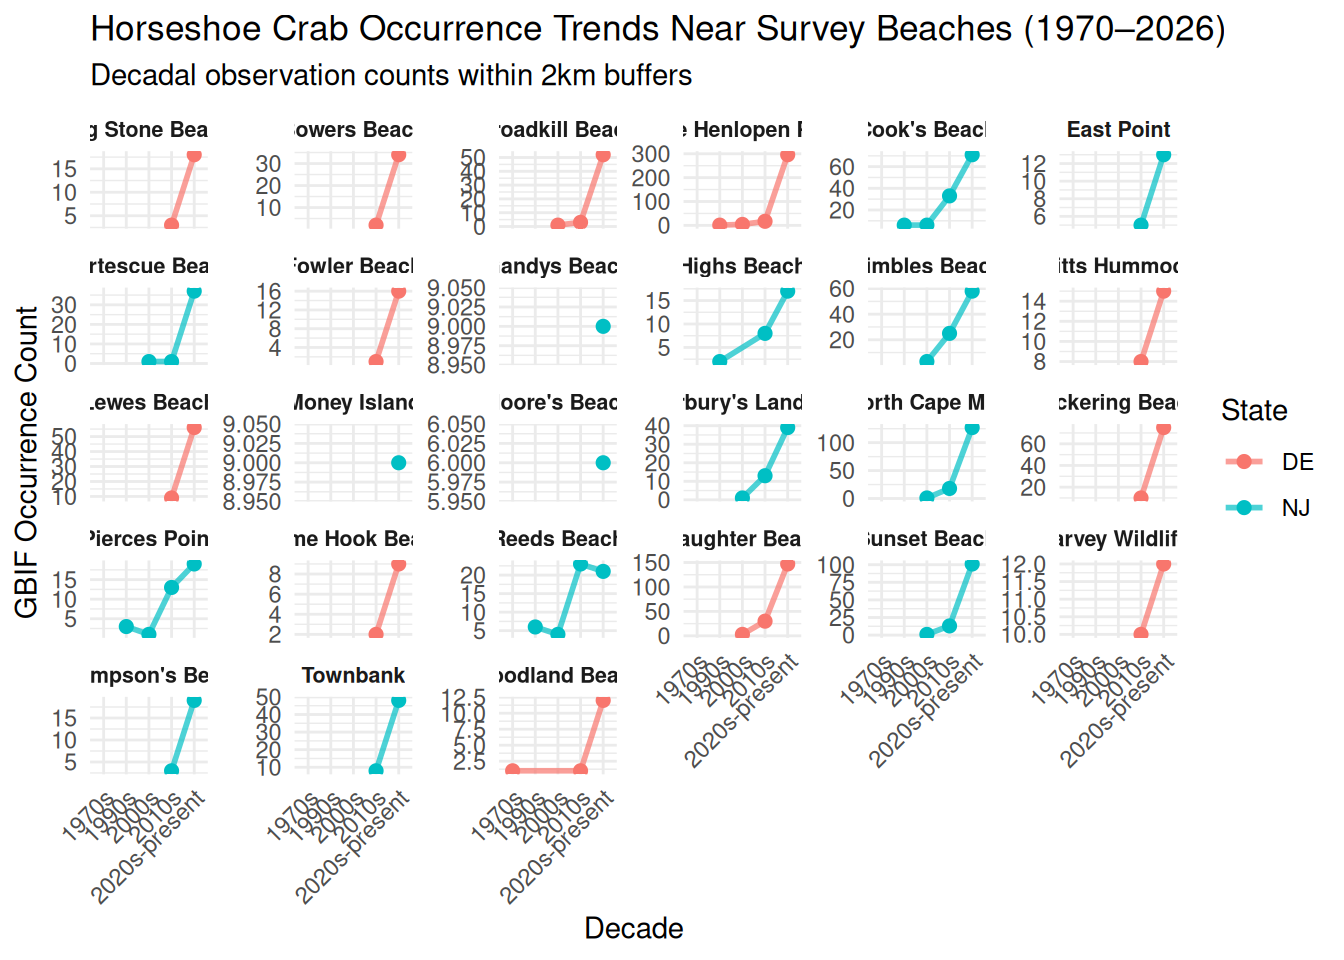
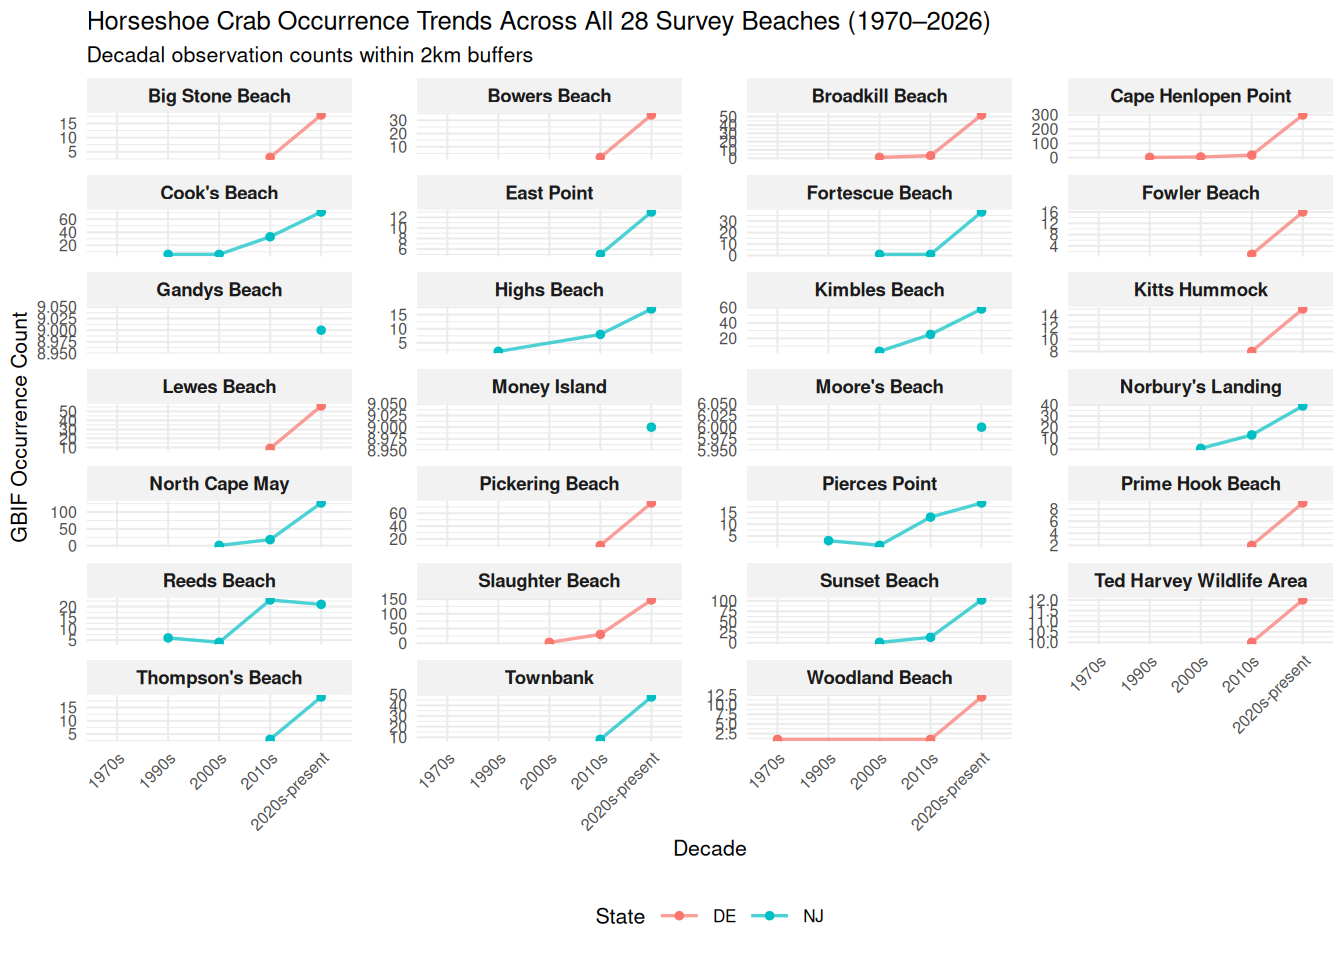
Built site for gh-pages

diff --git a/index.html b/index.html
@@ -158,7 +158,6 @@ pre > code.sourceCode > span > a:first-child::before { text-decoration: underlin
 <header id="title-block-header" class="quarto-title-block default">
 <div class="quarto-title">
 <h1 class="title">Modeling Horseshoe Crab Nesting Population Trends in Delaware Bay</h1>
-<p class="subtitle lead">Subtitle here if desired</p>
 </div>
 
 
@@ -189,11 +188,11 @@ pre > code.sourceCode > span > a:first-child::before { text-decoration: underlin
 
 <section id="introduction" class="level1">
 <h1>Introduction</h1>
-<p>How has the overexploitation of the American Horseshoe Crab (Limulus polyphemus) for commercial and biomedical harvesting impacted their Delaware Bay spawning populations? One of the oldest extant species, horseshoe crabs play a vital role in bay shore ecosystems. The Red Knot, among many other migratory birds, relies primarily on horseshoe crab eggs to complete its journey North. Specifically, this shorebird makes its final “pit stop” in Delaware Bay, the largest aggregation of horseshoe crab nesting sites. Since overharvesting of crabs has led to severe population declines in the past century, I am interested in determining how recent legislation passed regarding harvesting restrictions has affected spawning populations, particularly in the Delaware Bay shore region.</p>
+<p>How has the overexploitation of the American Horseshoe Crab (Limulus polyphemus) for commercial and biomedical harvesting impacted their Delaware Bay spawning populations? One of the oldest extant species, horseshoe crabs play a vital role in bay shore ecosystems. The Red Knot, among many other migratory birds, relies primarily on horseshoe crab eggs to complete its journey North. Specifically, this shorebird makes its final “pit stop” in Delaware Bay, the largest aggregation of horseshoe crab nesting sites. Since overharvesting of crabs has led to severe population declines in the past century, I am interested in determining how recent legislation passed regarding harvesting restrictions has affected spawning populations, particularly in the Delaware Bay shore region. By modeling historical citizen science occurrence data alongside annual spawning survey data, I intend to visualize fluctuations in horseshoe crab nesting sites. While this study will not prove correlation, it may provide insight as to how crab populations have changed since the establishment of anti-over-harvesting legislature.</p>
 </section>
 <section id="materials-and-methods" class="level1">
 <h1>Materials and methods</h1>
-<p>First, the study area was defined by drawing survey beach coordinates from the Delaware Bay Horseshoe Crab Annual Spawning Survey. Using the rgbif package, citizen scientist observation data of L. polyphemus was curated for 1970 (pre-legislation) to 2026 (post-legislation). After creating buffer rings around the survey beaches, occurrence data was filtered and summarized by decade. The horseshoe crab spawning survey csv file (located in the /data folder).</p>
+<p>The study area was first defined by drawing 28 survey beach coordinates from the Delaware Bay Horseshoe Crab Annual Spawning Survey. Using the rgbif package, citizen scientist observation data of L. polyphemus was curated for 1970 (pre-legislation) to 2026 (post-legislation). After creating buffer rings around the survey beaches, occurrence data was filtered and summarized by decade. The horseshoe crab spawning survey csv file (located in the /data folder) will be used to compare citizen science data to official survey records and further visualize population fluctuations. Specifically, I intend to use the Baywide Male &amp; Female Spawning Activity and % Female Spawning in May columns to model changes in nesting sites.</p>
 <section id="load-required-packages" class="level2">
 <h2 class="anchored" data-anchor-id="load-required-packages">Load required packages</h2>
 <div class="cell">
@@ -303,9 +302,7 @@ $ `NJ Female  90% CI Upper Limit`            &lt;dbl&gt; 0.80, 0.96, 0.80, 1.30,
 <span id="cb6-39"><a href="#cb6-39" aria-hidden="true" tabindex="-1"></a>gbif_df <span class="ot">&lt;-</span> hsc_gbif<span class="sc">$</span>data <span class="sc">|&gt;</span> <span class="co"># Extract data frame from occurrence records</span></span>
 <span id="cb6-40"><a href="#cb6-40" aria-hidden="true" tabindex="-1"></a>  <span class="fu">filter</span>(<span class="sc">!</span><span class="fu">is.na</span>(decimalLongitude) <span class="sc">&amp;</span> <span class="sc">!</span><span class="fu">is.na</span>(decimalLatitude)) <span class="sc">|&gt;</span> <span class="co"># Only keep rows with lat/long data</span></span>
 <span id="cb6-41"><a href="#cb6-41" aria-hidden="true" tabindex="-1"></a>  <span class="fu">select</span>(decimalLongitude, decimalLatitude, year) <span class="co"># Select coordinate data</span></span>
-<span id="cb6-42"><a href="#cb6-42" aria-hidden="true" tabindex="-1"></a><span class="co">#'</span></span>
-<span id="cb6-43"><a href="#cb6-43" aria-hidden="true" tabindex="-1"></a><span class="co">#'</span></span>
-<span id="cb6-44"><a href="#cb6-44" aria-hidden="true" tabindex="-1"></a><span class="co">#'</span></span></code></pre></div><button title="Copy to Clipboard" class="code-copy-button"><i class="bi"></i></button></div>
+<span id="cb6-42"><a href="#cb6-42" aria-hidden="true" tabindex="-1"></a><span class="co">#'</span></span></code></pre></div><button title="Copy to Clipboard" class="code-copy-button"><i class="bi"></i></button></div>
 </div>
 </section>
 <section id="convert-to-spatial-objects-and-count-modern-occurrences-near-beaches" class="level2">
@@ -356,18 +353,34 @@ $ `NJ Female  90% CI Upper Limit`            &lt;dbl&gt; 0.80, 0.96, 0.80, 1.30,
 <p>Tables and figures (maps and other graphics) are carefully planned to convey the results of your analysis. Intense exploration and evidence of many trials and failures. The author looked at the data in many different ways before coming to the final presentation of the data.</p>
 <p>Show tables, plots, etc. and describe them.</p>
 <div class="cell">
-<div class="code-copy-outer-scaffold"><div class="sourceCode cell-code" id="cb9"><pre class="sourceCode r code-with-copy"><code class="sourceCode r"><span id="cb9-1"><a href="#cb9-1" aria-hidden="true" tabindex="-1"></a><span class="co"># Plot of occurrence data trend</span></span>
-<span id="cb9-2"><a href="#cb9-2" aria-hidden="true" tabindex="-1"></a><span class="fu">ggplot</span>(gbif_trends, <span class="fu">aes</span>(<span class="at">x =</span> Decade, <span class="at">y =</span> Observation_Count, <span class="at">group =</span> Beach_Name, <span class="at">color =</span> State)) <span class="sc">+</span></span>
-<span id="cb9-3"><a href="#cb9-3" aria-hidden="true" tabindex="-1"></a>  <span class="fu">geom_line</span>(<span class="at">linewidth =</span> <span class="dv">1</span>, <span class="at">alpha =</span> <span class="fl">0.7</span>) <span class="sc">+</span></span>
-<span id="cb9-4"><a href="#cb9-4" aria-hidden="true" tabindex="-1"></a>  <span class="fu">geom_point</span>(<span class="at">size =</span> <span class="dv">2</span>) <span class="sc">+</span></span>
-<span id="cb9-5"><a href="#cb9-5" aria-hidden="true" tabindex="-1"></a>  <span class="fu">facet_wrap</span>(<span class="sc">~</span> Beach_Name, <span class="at">scales =</span> <span class="st">"free_y"</span>) <span class="sc">+</span></span>
-<span id="cb9-6"><a href="#cb9-6" aria-hidden="true" tabindex="-1"></a>  <span class="fu">theme_minimal</span>() <span class="sc">+</span></span>
-<span id="cb9-7"><a href="#cb9-7" aria-hidden="true" tabindex="-1"></a>  <span class="fu">labs</span>(<span class="at">title =</span> <span class="st">"Horseshoe Crab Occurrence Trends Near Survey Beaches (1970–2026)"</span>,</span>
+<div class="code-copy-outer-scaffold"><div class="sourceCode cell-code" id="cb9"><pre class="sourceCode r code-with-copy"><code class="sourceCode r"><span id="cb9-1"><a href="#cb9-1" aria-hidden="true" tabindex="-1"></a><span class="co"># Plot of historical occurrence data over surveyed beaches with &gt; 2 observations</span></span>
+<span id="cb9-2"><a href="#cb9-2" aria-hidden="true" tabindex="-1"></a>historical_plot <span class="ot">&lt;-</span> <span class="fu">ggplot</span>(gbif_trends, <span class="fu">aes</span>(<span class="at">x =</span> Decade, <span class="at">y =</span> Observation_Count, <span class="at">group =</span> Beach_Name, <span class="at">color =</span> State)) <span class="sc">+</span></span>
+<span id="cb9-3"><a href="#cb9-3" aria-hidden="true" tabindex="-1"></a>  <span class="fu">geom_line</span>(<span class="at">linewidth =</span> <span class="fl">0.6</span>, <span class="at">alpha =</span> <span class="fl">0.7</span>) <span class="sc">+</span> </span>
+<span id="cb9-4"><a href="#cb9-4" aria-hidden="true" tabindex="-1"></a>  <span class="fu">geom_point</span>(<span class="at">size =</span> <span class="fl">1.2</span>) <span class="sc">+</span>                     </span>
+<span id="cb9-5"><a href="#cb9-5" aria-hidden="true" tabindex="-1"></a>  <span class="fu">facet_wrap</span>(<span class="sc">~</span> Beach_Name, <span class="at">scales =</span> <span class="st">"free_y"</span>, <span class="at">ncol =</span> <span class="dv">4</span>) <span class="sc">+</span> <span class="co"># 4 columns x 7 rows grid</span></span>
+<span id="cb9-6"><a href="#cb9-6" aria-hidden="true" tabindex="-1"></a>  <span class="fu">theme_minimal</span>(<span class="at">base_size =</span> <span class="dv">8</span>) <span class="sc">+</span>  <span class="co"># Shrink baseline fonts</span></span>
+<span id="cb9-7"><a href="#cb9-7" aria-hidden="true" tabindex="-1"></a>  <span class="fu">labs</span>(<span class="at">title =</span> <span class="st">"Horseshoe Crab Occurrence Trends Across All 28 Survey Beaches (1970–2026)"</span>,</span>
 <span id="cb9-8"><a href="#cb9-8" aria-hidden="true" tabindex="-1"></a>       <span class="at">subtitle =</span> <span class="st">"Decadal observation counts within 2km buffers"</span>,</span>
 <span id="cb9-9"><a href="#cb9-9" aria-hidden="true" tabindex="-1"></a>       <span class="at">x =</span> <span class="st">"Decade"</span>,</span>
 <span id="cb9-10"><a href="#cb9-10" aria-hidden="true" tabindex="-1"></a>       <span class="at">y =</span> <span class="st">"GBIF Occurrence Count"</span>) <span class="sc">+</span></span>
-<span id="cb9-11"><a href="#cb9-11" aria-hidden="true" tabindex="-1"></a>  <span class="fu">theme</span>(<span class="at">axis.text.x =</span> <span class="fu">element_text</span>(<span class="at">angle =</span> <span class="dv">45</span>, <span class="at">hjust =</span> <span class="dv">1</span>),</span>
-<span id="cb9-12"><a href="#cb9-12" aria-hidden="true" tabindex="-1"></a>        <span class="at">strip.text =</span> <span class="fu">element_text</span>(<span class="at">face =</span> <span class="st">"bold"</span>, <span class="at">size =</span> <span class="dv">8</span>))</span></code></pre></div><button title="Copy to Clipboard" class="code-copy-button"><i class="bi"></i></button></div>
+<span id="cb9-11"><a href="#cb9-11" aria-hidden="true" tabindex="-1"></a>  <span class="fu">theme</span>(<span class="at">axis.text.x =</span> <span class="fu">element_text</span>(<span class="at">angle =</span> <span class="dv">45</span>, <span class="at">hjust =</span> <span class="dv">1</span>, <span class="at">size =</span> <span class="dv">6</span>), <span class="co"># Tiny x labels  </span></span>
+<span id="cb9-12"><a href="#cb9-12" aria-hidden="true" tabindex="-1"></a>        <span class="at">axis.text.y =</span> <span class="fu">element_text</span>(<span class="at">size =</span> <span class="dv">6</span>), <span class="co"># Tiny y labels</span></span>
+<span id="cb9-13"><a href="#cb9-13" aria-hidden="true" tabindex="-1"></a>        <span class="at">strip.text =</span> <span class="fu">element_text</span>(<span class="at">face =</span> <span class="st">"bold"</span>, <span class="at">size =</span> <span class="dv">7</span>), <span class="co"># Compact beach titles</span></span>
+<span id="cb9-14"><a href="#cb9-14" aria-hidden="true" tabindex="-1"></a>        <span class="at">strip.background =</span> <span class="fu">element_rect</span>(<span class="at">fill =</span> <span class="st">"gray95"</span>, <span class="at">color =</span> <span class="cn">NA</span>), <span class="co"># Replace header background and remove border</span></span>
+<span id="cb9-15"><a href="#cb9-15" aria-hidden="true" tabindex="-1"></a>        <span class="at">panel.spacing =</span> <span class="fu">unit</span>(<span class="fl">0.4</span>, <span class="st">"lines"</span>), <span class="co"># Add space between subplots</span></span>
+<span id="cb9-16"><a href="#cb9-16" aria-hidden="true" tabindex="-1"></a>        <span class="at">legend.position =</span> <span class="st">"bottom"</span>) <span class="co"># Increase horizontal space</span></span>
+<span id="cb9-17"><a href="#cb9-17" aria-hidden="true" tabindex="-1"></a><span class="co">#'</span></span>
+<span id="cb9-18"><a href="#cb9-18" aria-hidden="true" tabindex="-1"></a><span class="fu">ggsave</span>(<span class="st">"historical_occurrence.png"</span>, <span class="at">plot =</span> historical_plot, <span class="at">width =</span> <span class="dv">12</span>, <span class="at">height =</span> <span class="dv">16</span>, <span class="at">dpi =</span> <span class="dv">300</span>) <span class="co"># Save to prevent squishing</span></span></code></pre></div><button title="Copy to Clipboard" class="code-copy-button"><i class="bi"></i></button></div>
+<div class="cell-output cell-output-stderr">
+<pre><code>`geom_line()`: Each group consists of only one observation.
+ℹ Do you need to adjust the group aesthetic?
+`geom_line()`: Each group consists of only one observation.
+ℹ Do you need to adjust the group aesthetic?
+`geom_line()`: Each group consists of only one observation.
+ℹ Do you need to adjust the group aesthetic?</code></pre>
+</div>
+<div class="code-copy-outer-scaffold"><div class="sourceCode cell-code" id="cb11"><pre class="sourceCode r code-with-copy"><code class="sourceCode r"><span id="cb11-1"><a href="#cb11-1" aria-hidden="true" tabindex="-1"></a><span class="co">#'</span></span>
+<span id="cb11-2"><a href="#cb11-2" aria-hidden="true" tabindex="-1"></a>historical_plot</span></code></pre></div><button title="Copy to Clipboard" class="code-copy-button"><i class="bi"></i></button></div>
 <div class="cell-output cell-output-stderr">
 <pre><code>`geom_line()`: Each group consists of only one observation.
 ℹ Do you need to adjust the group aesthetic?
